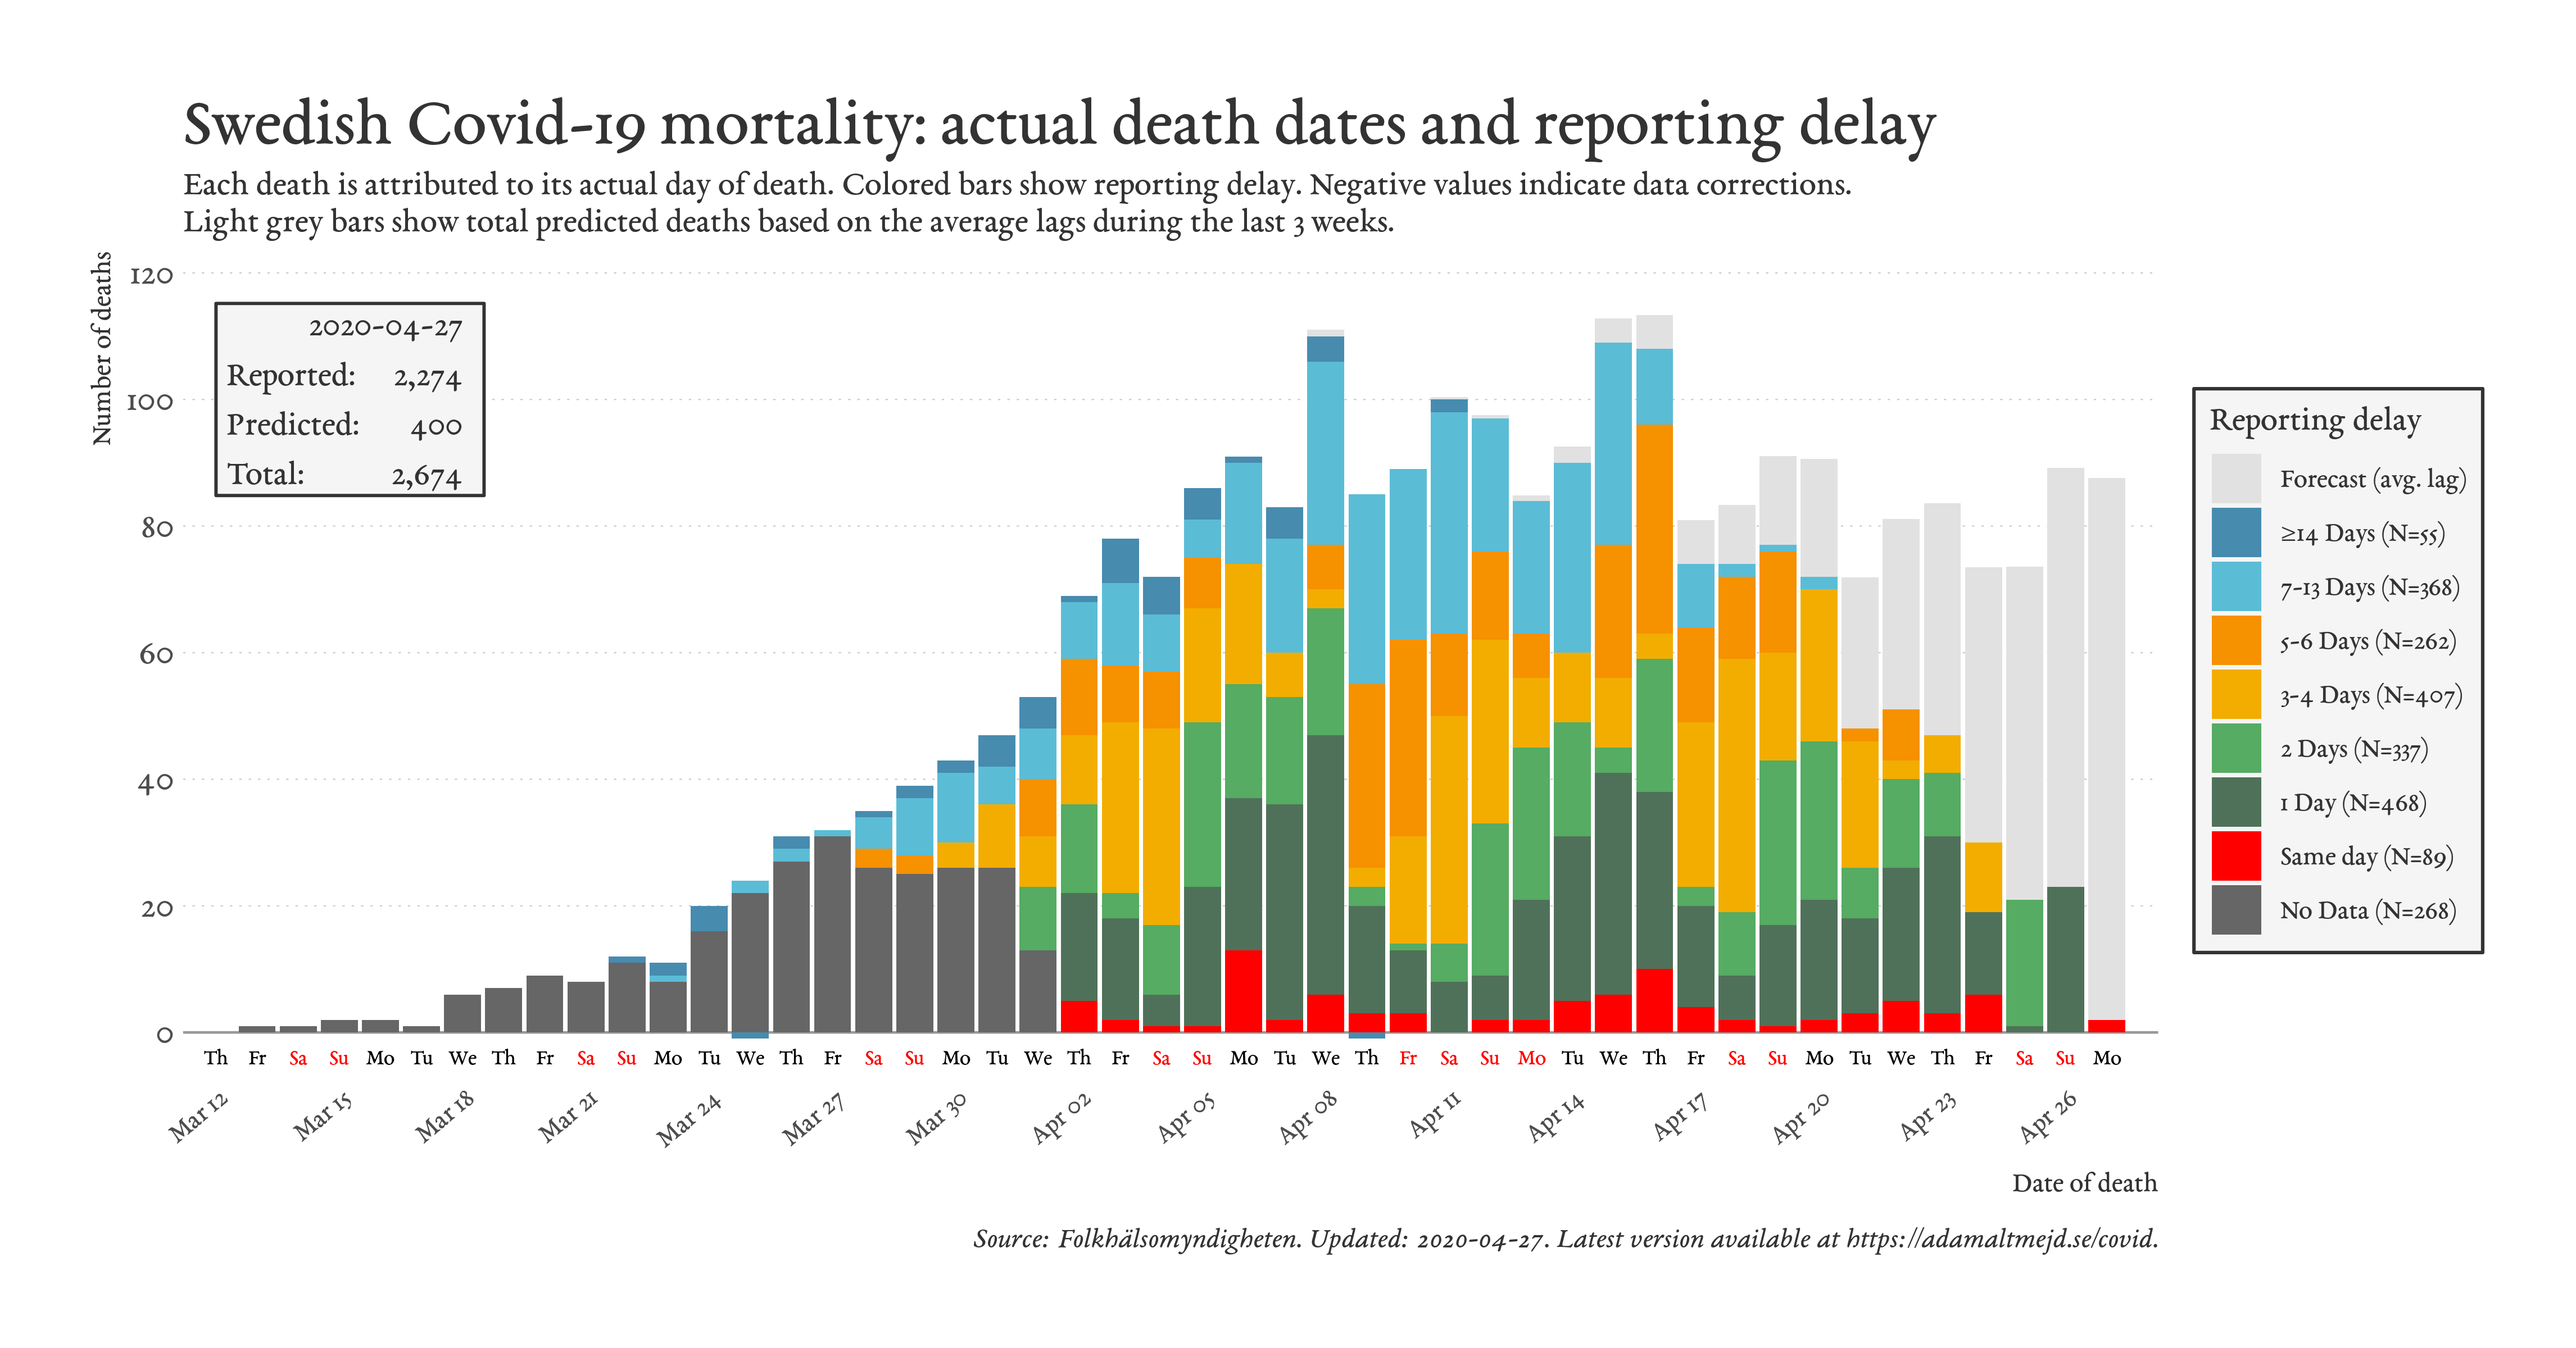
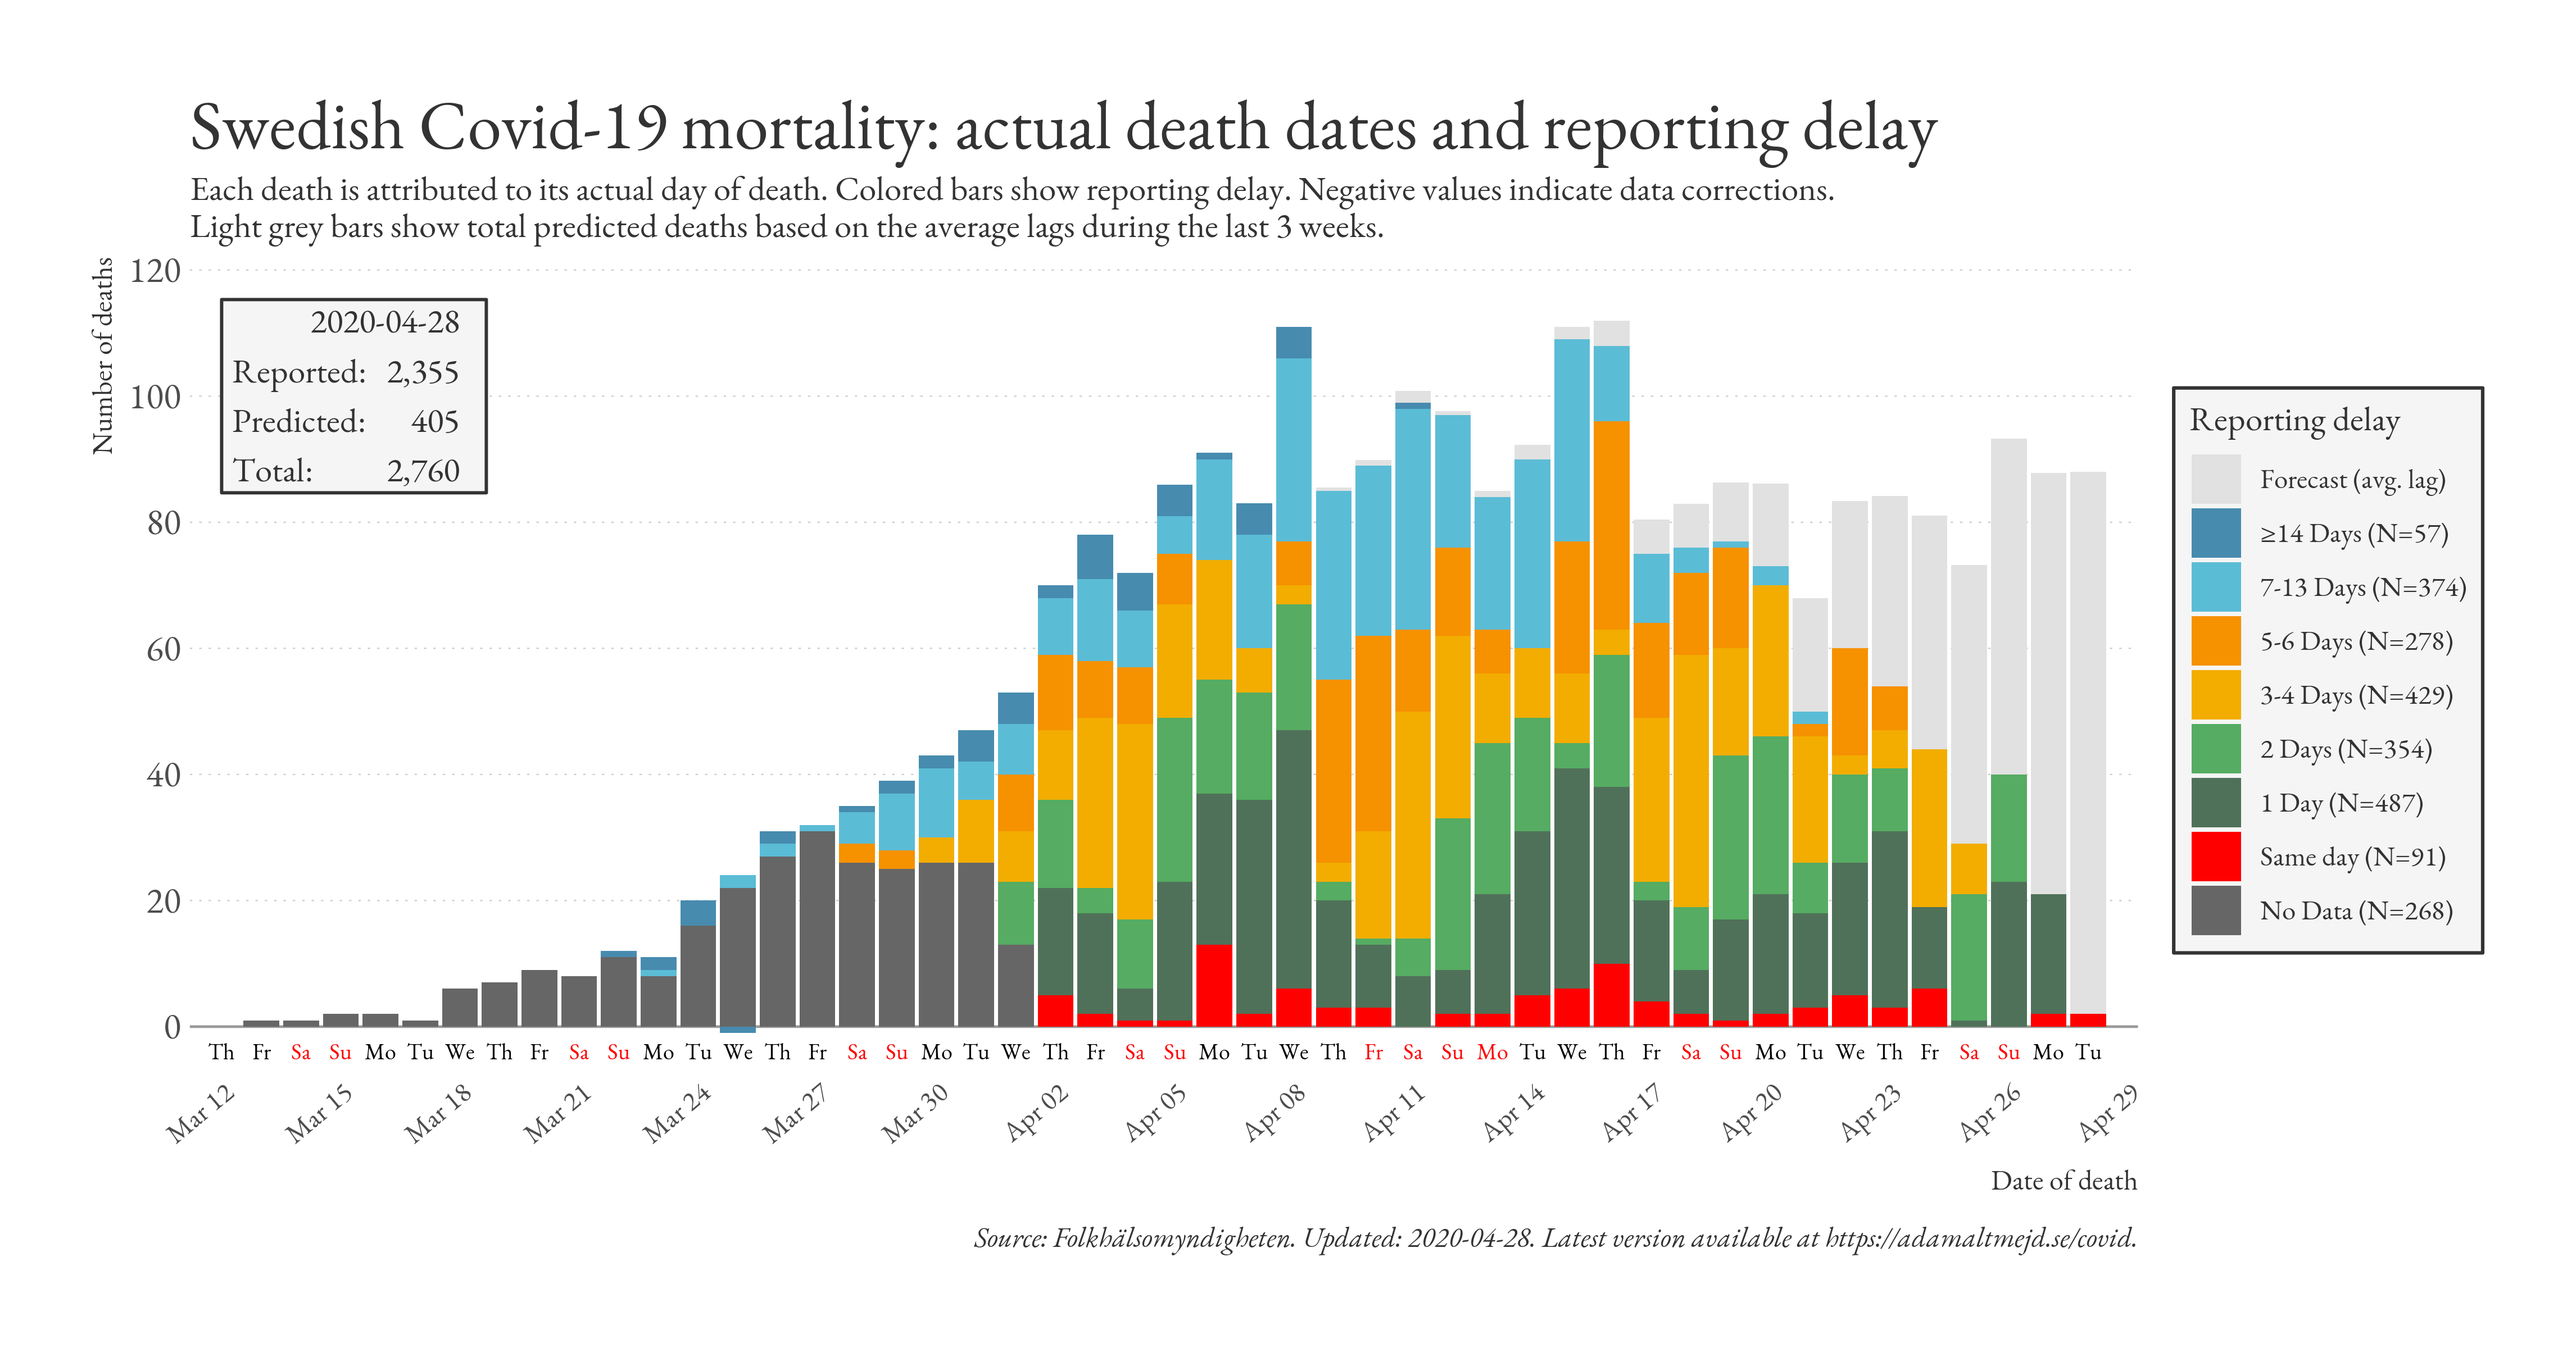
manual update due to github actions bug

diff --git a/docs/index.md b/docs/index.md
@@ -2,8 +2,8 @@
 layout: page
 title: Reported Covid-19 deaths in Sweden
 author: Adam Altmejd
-date: 2020-04-27
+date: 2020-04-28
 ---
 
-![Graph of Swedish Covid-19 deaths with reporting delay.](deaths_lag_sweden_2020-04-27.png "Reporting delay in Swedish covid-19 deaths.")
+![Graph of Swedish Covid-19 deaths with reporting delay.](deaths_lag_sweden_2020-04-28.png "Reporting delay in Swedish covid-19 deaths.")
 For code and data, visit <https://github.com/adamaltmejd/covid>.
